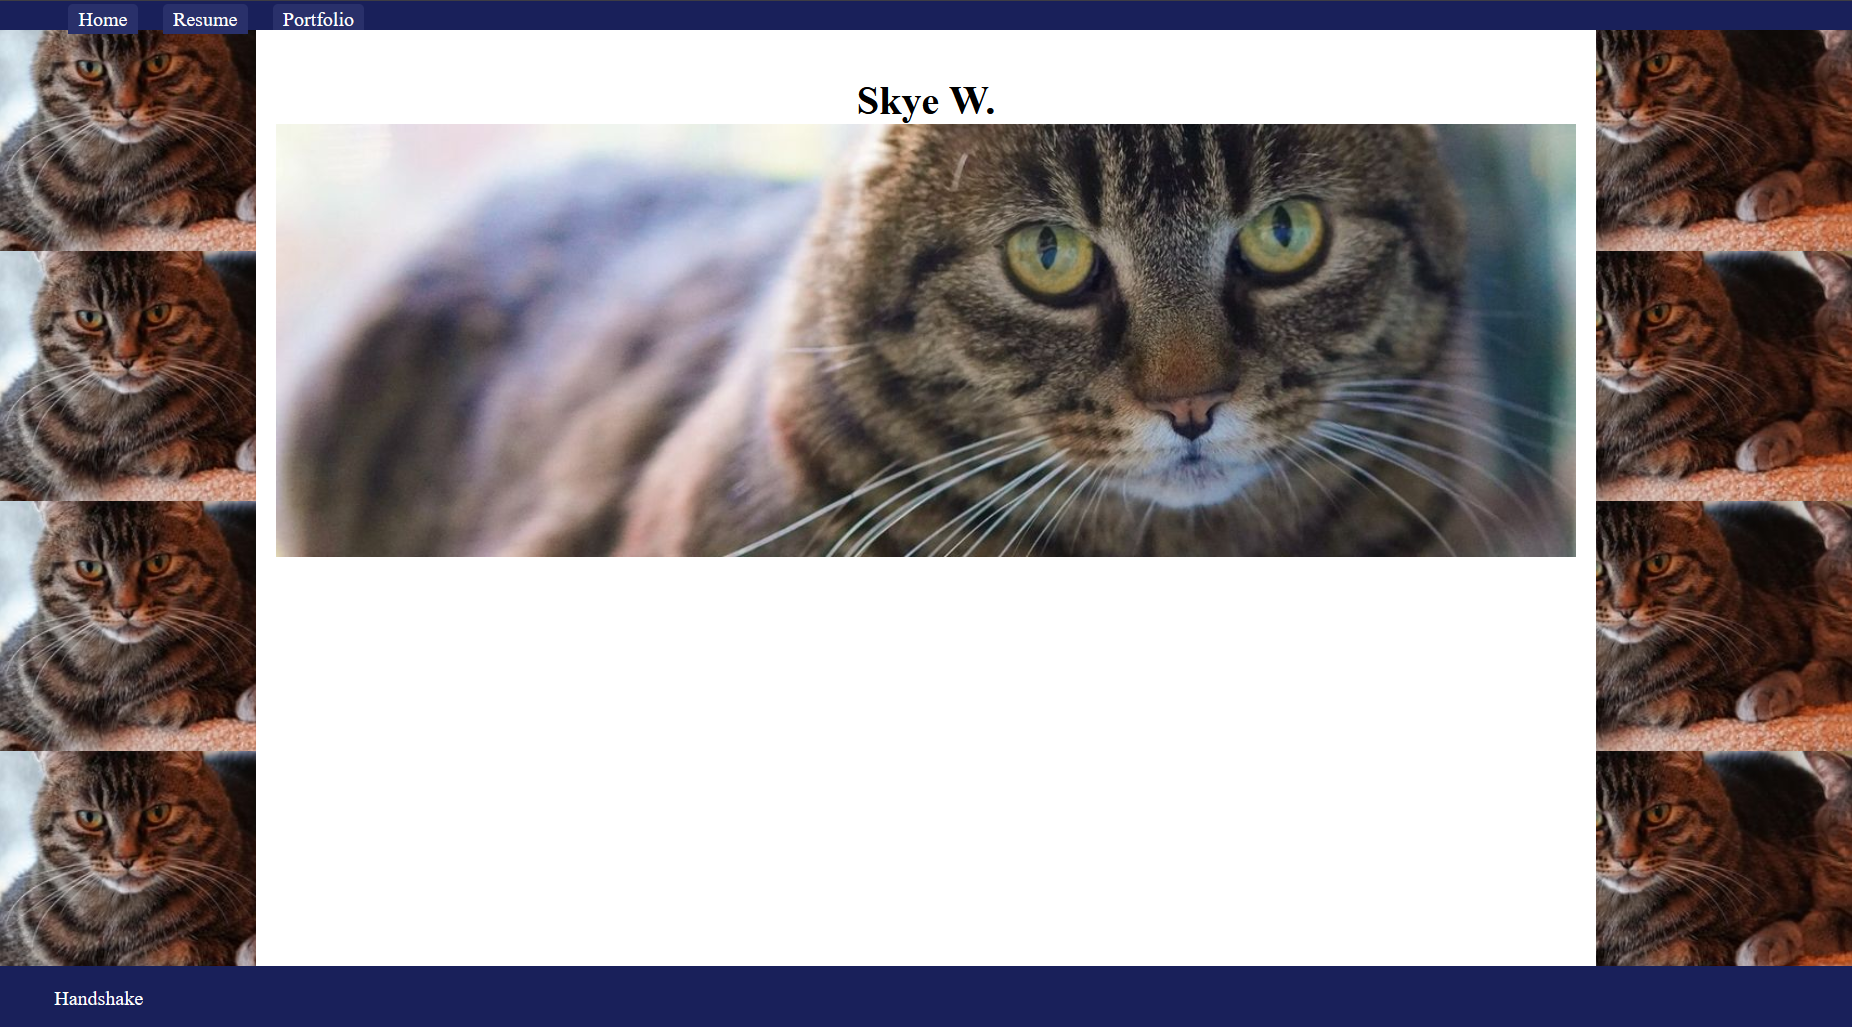
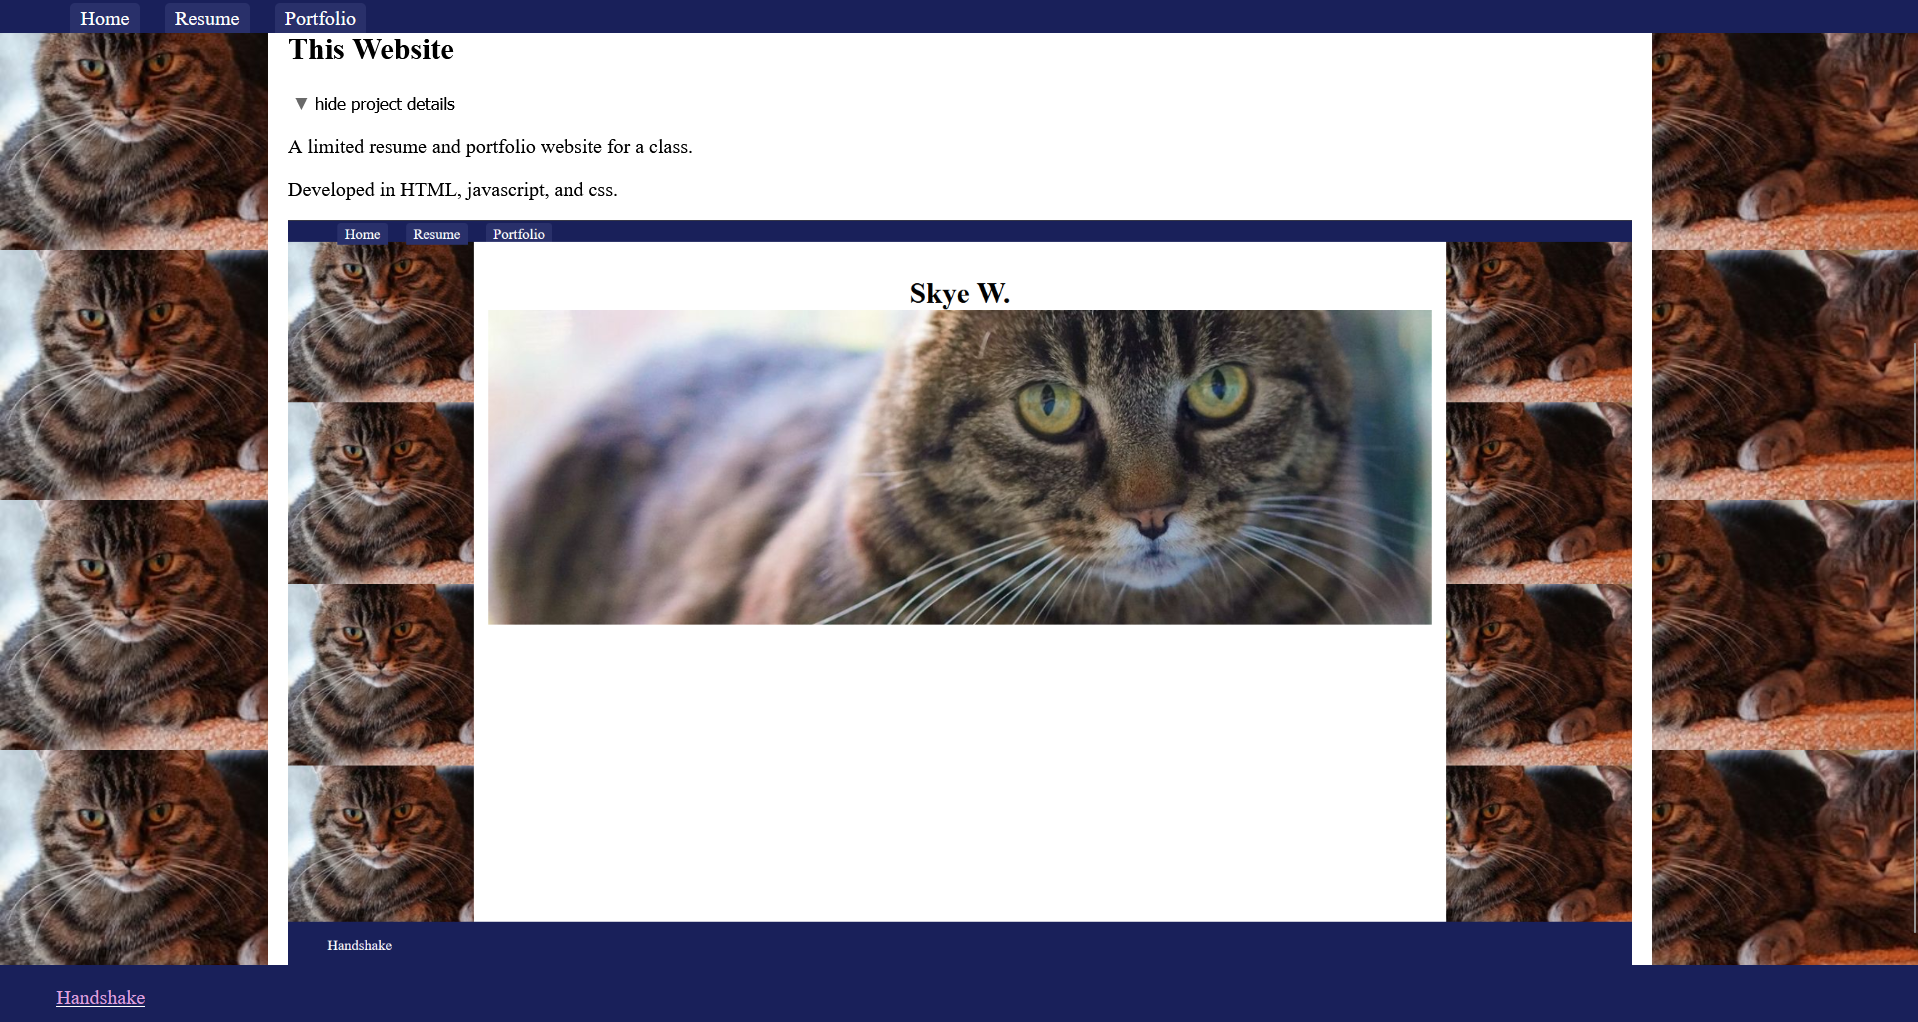
nearly done

diff --git a/portfolio.html b/portfolio.html
@@ -14,34 +14,39 @@
         <main class="flexy">
             <div class="center"><h1 class="content">Past Projects</div>
             <div class="center">
-                <article class="content leftalign">
+                <section class="content leftalign">
                     <h2>Custom Assembler</h2>
-                    <p>An assembler for a custom assembly language.</p>
-                    <p>Developed in python.</p>
-                    <img src="img/assembler doc image.png" alt="A short segment of the documentation of the assembler.">
-                </article>
+                    <article>
+                        <p>An assembler for a custom assembly language.</p>
+                        <p>Developed in python.</p>
+                        <img src="img/assembler doc image.png" alt="A short segment of the documentation of the assembler.">
+                    </article>
+                </section>
             </div>
             <div class="center">
-                <article class="content leftalign">
+                <section class="content leftalign">
                     <h2>Emulator for Custom Assembly</h2>
-                    <p>An emulator to simulate execution of a custom assembly language.</p>
-                    <p>Developed in rust.</p>
-                    <img src="img/emulator opcode doc.png" alt="A short segment of the documentation of the emulator showing opcode translations.">
+                    <article>
+                        <p>An emulator to simulate execution of a custom assembly language.</p>
+                        <p>Developed in rust.</p>
+                        <img src="img/emulator opcode doc.png" alt="A short segment of the documentation of the emulator showing opcode translations.">
+                    </article>
                 </article>
             </div>
             <div class="center extend">
-                <article class="content leftalign">
+                <section class="content leftalign">
                     <h2>This Website</h2>
-                    <p>A limited resume and portfolio website for a class.</p>
-                    <p>Developed in HTML, javascript, and css.</p>
-                    <img src="img/emulator opcode doc.png" alt="A short segment of the documentation of the emulator showing opcode translations.">
-                </article>
+                    <article>
+                        <p>A limited resume and portfolio website for a class.</p>
+                        <p>Developed in HTML, javascript, and css.</p>
+                        <img src="img/website.png" alt="A short segment of the documentation of the emulator showing opcode translations.">
+                    </article>
+                </section>
             </div>
         </main>
 
         <footer id="footer-placeholder"></footer>
-
-        <script src="https://code.jquery.com/jquery-1.10.2.js"></script>
+        
         <script src="main.js"></script>
     </body>
 </html>

diff --git a/common.css b/common.css
@@ -36,16 +36,30 @@ footer {
     bottom: 0;
 }
 
+.linkdeco {
+    text-decoration: underline;
+}
+
+.linkdeco :visited {
+    color: plum;
+}
+
 img {
     width: 100%;
     max-height: 100%;
+}
+
+button {
+    background-color: white;
+    color: black;
+    border: none;
 }
 
 nav {
     background-color: var(--theme-color);
     color: white;
     margin: 0px;
-    padding: 5px 5px 0 5px;
+    padding: 5px 5px 3px 5px;
 }
 
 .nav li {
@@ -74,6 +88,10 @@ nav li {
 nav li:hover {
     background-color: #49508a;
     font-size: 1.03em;
+}
+
+.arrow {
+    color:  dimgray;
 }
 
 .center {

diff --git a/main.js b/main.js
@@ -5,3 +5,15 @@ $.get("/navigation.html", function(data){
 $.get("/footer.html", function(data){
     $("#footer-placeholder").replaceWith(data)
 })
+
+$("article").hide()
+
+const showHTML = "<span class=\"arrow\">▶</span> show project details";
+const hideHTML = "<span class=\"arrow\">▼</span> hide project details";
+
+$("article").before(`<button class="article-button">${showHTML}</button>`)
+$(".article-button").click(function(){
+    let nextText = $(this).html() == showHTML ? hideHTML : showHTML
+    $(this).html(nextText)
+    $(this).next().slideToggle()
+})

diff --git a/footer.html b/footer.html
@@ -1,3 +1,3 @@
 <footer class="nav">
-    <ul><li><a href="https://app.joinhandshake.com/profiles/tgreae">Handshake</a></li></ul>
+    <ul class="linkdeco"><li><a href="https://app.joinhandshake.com/profiles/tgreae">Handshake</a></li></ul>
 </footer>

diff --git a/index.html b/index.html
@@ -17,7 +17,7 @@
             <div class="center tall">
                 <section id="main-section" class="content">
                     <h1>Skye W.</h1>
-                    <img src="https://placecats.com/1200/400" alt="cat placeholder image">
+                    <img src="https://placecats.com/1200/400" alt="image of cat from place cats api.">
                 </section>
             </div>
         </main>

diff --git a/README.md b/README.md
@@ -1,0 +1,1 @@
+[website](https://rhit-willisma.github.io/index.html)